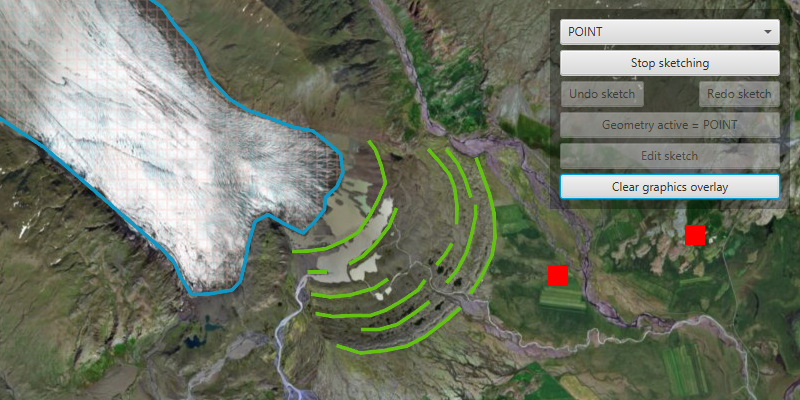
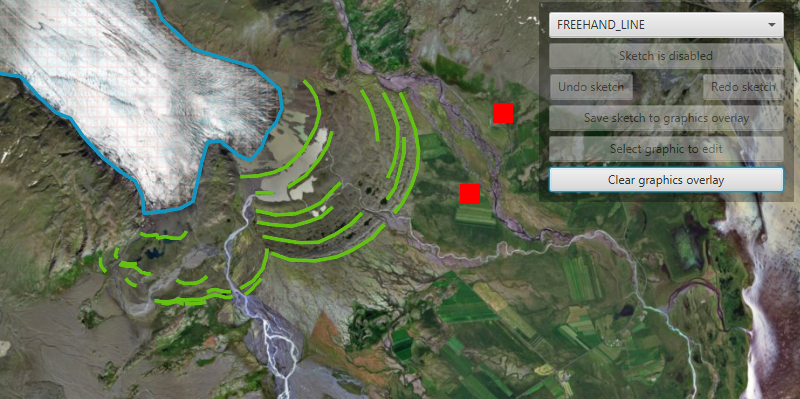
Added new image and code edits
Code edits are removing label and using button prompt instead.

diff --git a/src/main/java/com/esri/samples/displayinformation/sketch_on_map/SketchOnMapSample.java b/src/main/java/com/esri/samples/displayinformation/sketch_on_map/SketchOnMapSample.java
@@ -40,7 +40,6 @@ import javafx.scene.Scene;
 import javafx.scene.control.Alert;
 import javafx.scene.control.Button;
 import javafx.scene.control.ComboBox;
-import javafx.scene.control.Label;
 import javafx.scene.layout.Background;
 import javafx.scene.layout.BackgroundFill;
 import javafx.scene.layout.CornerRadii;
@@ -48,7 +47,6 @@ import javafx.scene.layout.FlowPane;
 import javafx.scene.layout.StackPane;
 import javafx.scene.layout.VBox;
 import javafx.scene.paint.Paint;
-import javafx.scene.text.Font;
 import javafx.stage.Stage;
 
 public class SketchOnMapSample extends Application {
@@ -68,7 +66,6 @@ public class SketchOnMapSample extends Application {
   private SimpleMarkerSymbol pointSymbol;
   private Graphic graphic;
   private ComboBox<SketchCreationMode> sketchComboBox;
-  private Label promptLabel;
 
   @Override
   public void start(Stage stage) {
@@ -121,12 +118,6 @@ public class SketchOnMapSample extends Application {
       stopSketchButton = new Button("Sketch is disabled");
       buttonsSetMaxWidth();
 
-      // create prompt label for user for when a graphic can be selected to edit
-      promptLabel = new Label("Select a graphic to edit it");
-      promptLabel.setVisible(false);
-      promptLabel.setStyle("-fx-text-fill: white");
-      promptLabel.setFont(new Font(25));
-
       // disable all buttons when starting application
       disableButtons();
       // set prompt text on combobox when starting application
@@ -136,7 +127,6 @@ public class SketchOnMapSample extends Application {
       sketchComboBox.getSelectionModel().selectedItemProperty().addListener(o -> {
 
         // ensure no graphics are selected
-        promptLabel.setVisible(false);
         graphicsOverlay.clearSelection();
         disableButtons();
         // enable stop sketch button whilst in sketch mode
@@ -203,6 +193,7 @@ public class SketchOnMapSample extends Application {
         disableButtons();
         clearButton.setDisable(false);
         stopSketchButton.setDisable(false);
+        editButton.setText("Stop sketching to edit");
 
         // set text on the disabled save button to show user what geometry is active
         if (saveButton.isDisabled()) {
@@ -220,13 +211,13 @@ public class SketchOnMapSample extends Application {
         disableButtons();
         // set text to inform the user the sketch is disabled
         stopSketchButton.setText("Sketch is disabled");
+        saveButton.setText("Save sketch to graphics overlay");
 
-        if (graphicsOverlay.getGraphics().isEmpty()) {
-          promptLabel.setVisible(false);
-        } else {
+        if (!graphicsOverlay.getGraphics().isEmpty()) {
+          editButton.setText("Select graphic to edit");
           clearButton.setDisable(false);
-          promptLabel.setVisible(true);
         }
+
         // allow graphics to be selected after stopSketch button is used.
         selectGraphic();
       });
@@ -237,6 +228,8 @@ public class SketchOnMapSample extends Application {
         saveButton.setDisable(true);
         saveButton.setText("Save edits to graphics overlay");
         stopSketchButton.setText("Stop sketching");
+        editButton.setText("Edit Sketch (active)");
+        editButton.setBorder(null);
 
         // if the graphics overlay contains graphics, select the first graphic
         // and start the sketch editor based on that graphic's geometry
@@ -250,7 +243,6 @@ public class SketchOnMapSample extends Application {
       clearButton.setOnAction(event -> {
         graphicsOverlay.getGraphics().clear();
         sketchEditor.stop();
-        promptLabel.setVisible(false);
         disableButtons();
       });
 
@@ -283,16 +275,16 @@ public class SketchOnMapSample extends Application {
       VBox controlsVBox = new VBox(6);
       controlsVBox.setBackground(new Background(new BackgroundFill(Paint.valueOf("rgba(0, 0, 0, 0.3)"), CornerRadii.EMPTY, Insets.EMPTY)));
       controlsVBox.setPadding(new Insets(10));
-      controlsVBox.setMaxSize(240, 110);
+      controlsVBox.setMaxSize(255, 110);
       controlsVBox.getStyleClass().add("panel-region");
 
       // create a flow pane for placing buttons side by side within the control box
-      FlowPane flowPaneUndoRedo = new FlowPane(Orientation.HORIZONTAL, 55, 10, undoButton, redoButton);
+      FlowPane flowPaneUndoRedo = new FlowPane(Orientation.HORIZONTAL, 70, 10, undoButton, redoButton);
       flowPaneUndoRedo.setAlignment(Pos.CENTER);
       controlsVBox.getChildren().addAll(sketchComboBox, stopSketchButton, flowPaneUndoRedo, saveButton, editButton, clearButton);
 
       // add the map view to the stack pane
-      stackPane.getChildren().addAll(mapView, controlsVBox, promptLabel);
+      stackPane.getChildren().addAll(mapView, controlsVBox);
       stackPane.setAlignment(controlsVBox, Pos.TOP_RIGHT);
       stackPane.setMargin(controlsVBox, new Insets(10, 10, 0, 10));
 
@@ -332,11 +324,10 @@ public class SketchOnMapSample extends Application {
                 graphic.getGeometry().getGeometryType() == GeometryType.MULTIPOINT) {
           graphic.setSymbol(pointSymbol);
         }
-
+        // add the graphic to the graphics overlay
         graphicsOverlay.getGraphics().add(graphic);
       }
     }
-
     sketchEditor.stop();
   }
 
@@ -346,8 +337,6 @@ public class SketchOnMapSample extends Application {
   private void selectGraphic() {
 
     mapView.setOnMouseClicked(e -> {
-
-      promptLabel.setVisible(false);
 
       graphicsOverlay.clearSelection();
       Point2D mapViewPoint = new Point2D(e.getX(), e.getY());
@@ -364,6 +353,7 @@ public class SketchOnMapSample extends Application {
             graphic = identifyGraphics.get().getGraphics().get(0);
             graphic.setSelected(true);
             editButton.setDisable(false);
+            editButton.setText("Edit Sketch");
           } else {
             editButton.setDisable(true);
           }
